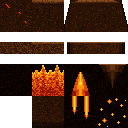
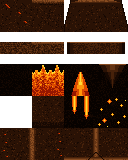
feat: adiciona tiles de parede lateral ao Stage_01T (4x5)
Row 4 nova — tiles para wall-jump no tema fogo/vulcão:
- (0,4) Parede esquerda: face direita exposta, highlight borda direita
- (1,4) Parede direita: face esquerda exposta, highlight borda esquerda
- (2,4) Canto parede-esquerda + teto
- (3,4) Canto parede-direita + teto

Spritesheet expandido de 128x128 para 128x160.
ImgDebug e testes atualizados (rows 4→5, novas descs e asserts).

diff --git a/gen_stage01_tileset.py b/gen_stage01_tileset.py
@@ -1,12 +1,14 @@
-"""Generates Stage_01T.png — 128x128 spritesheet (4x4 grid, 32x32 tiles) fire/volcano theme."""
+"""Generates Stage_01T.png — 128x160 spritesheet (4x5 grid, 32x32 tiles) fire/volcano theme."""
 from PIL import Image
 import random, os
 
 random.seed(1337)
 
 TILE = 32
-T = 4  # grid size
-W = H = TILE * T  # 128x128
+COLS = 4
+ROWS = 5
+W = TILE * COLS   # 128
+H = TILE * ROWS   # 160
 
 # --- Palette ---
 BLANK   = (  0,   0,   0,   0)
@@ -27,7 +29,7 @@ px  = img.load()
 
 def sp(col, row, x, y, c):
     gx, gy = col * TILE + x, row * TILE + y
-    if 0 <= gx < W and 0 <= gy < H:
+    if 0 <= gx < W and 0 <= gy < H and row < ROWS:
         px[gx, gy] = c
 
 def rock_fill(col, row, base=RK_DK):
@@ -319,6 +321,74 @@ for (ex, ey, size) in clusters:
                     sp(3, 3, nx, ny, c_mid)
                 elif d == 2 and size >= 3:
                     sp(3, 3, nx, ny, c_outer)
+
+# ──────────────────────────────────────────────
+# (0,4)  Wall left — face direita visível
+# (player encosta à esquerda e pula na face direita)
+# ──────────────────────────────────────────────
+rock_fill(0, 4)
+# lava seams
+for (vx, vy) in [(4, 6), (5, 14), (3, 22), (6, 28)]:
+    sp(0, 4, vx, vy, LV_DK)
+    if vx + 1 < TILE: sp(0, 4, vx + 1, vy, LV_MD)
+# highlight na borda direita (face exposta)
+for y in range(TILE):
+    sp(0, 4, TILE - 1, y, RK_HI if random.random() > 0.25 else RK_LT)
+    sp(0, 4, TILE - 2, y, RK_LT if random.random() > 0.35 else RK_HI)
+    sp(0, 4, TILE - 3, y, RK_MD)
+    sp(0, 4, TILE - 4, y, RK_DK if random.random() > 0.4 else RK_MD)
+
+# ──────────────────────────────────────────────
+# (1,4)  Wall right — face esquerda visível
+# (player encosta à direita e pula na face esquerda)
+# ──────────────────────────────────────────────
+rock_fill(1, 4)
+for (vx, vy) in [(26, 5), (27, 13), (25, 21), (28, 27)]:
+    sp(1, 4, vx, vy, LV_DK)
+    if vx + 1 < TILE: sp(1, 4, vx + 1, vy, LV_MD)
+for y in range(TILE):
+    sp(1, 4, 0, y, RK_HI if random.random() > 0.25 else RK_LT)
+    sp(1, 4, 1, y, RK_LT if random.random() > 0.35 else RK_HI)
+    sp(1, 4, 2, y, RK_MD)
+    sp(1, 4, 3, y, RK_DK if random.random() > 0.4 else RK_MD)
+
+# ──────────────────────────────────────────────
+# (2,4)  Canto parede-esquerda + teto
+# (junção entre parede esquerda e teto)
+# ──────────────────────────────────────────────
+rock_fill(2, 4)
+# face direita (parede)
+for y in range(TILE):
+    sp(2, 4, TILE - 1, y, RK_HI if random.random() > 0.25 else RK_LT)
+    sp(2, 4, TILE - 2, y, RK_LT)
+    sp(2, 4, TILE - 3, y, RK_MD)
+# face inferior (teto)
+for x in range(TILE):
+    sp(2, 4, x, TILE - 1, RK_HI if random.random() > 0.25 else RK_LT)
+    sp(2, 4, x, TILE - 2, RK_LT)
+    sp(2, 4, x, TILE - 3, RK_MD)
+# canto em diagonal
+for d in range(8):
+    sp(2, 4, TILE - 1 - d, TILE - 1 - (7 - d), RK_VDK)
+
+# ──────────────────────────────────────────────
+# (3,4)  Canto parede-direita + teto
+# (junção entre parede direita e teto)
+# ──────────────────────────────────────────────
+rock_fill(3, 4)
+# face esquerda (parede)
+for y in range(TILE):
+    sp(3, 4, 0, y, RK_HI if random.random() > 0.25 else RK_LT)
+    sp(3, 4, 1, y, RK_LT)
+    sp(3, 4, 2, y, RK_MD)
+# face inferior (teto)
+for x in range(TILE):
+    sp(3, 4, x, TILE - 1, RK_HI if random.random() > 0.25 else RK_LT)
+    sp(3, 4, x, TILE - 2, RK_LT)
+    sp(3, 4, x, TILE - 3, RK_MD)
+# canto em diagonal
+for d in range(8):
+    sp(3, 4, d, TILE - 1 - (7 - d), RK_VDK)
 
 # ──────────────────────────────────────────────
 # Save
